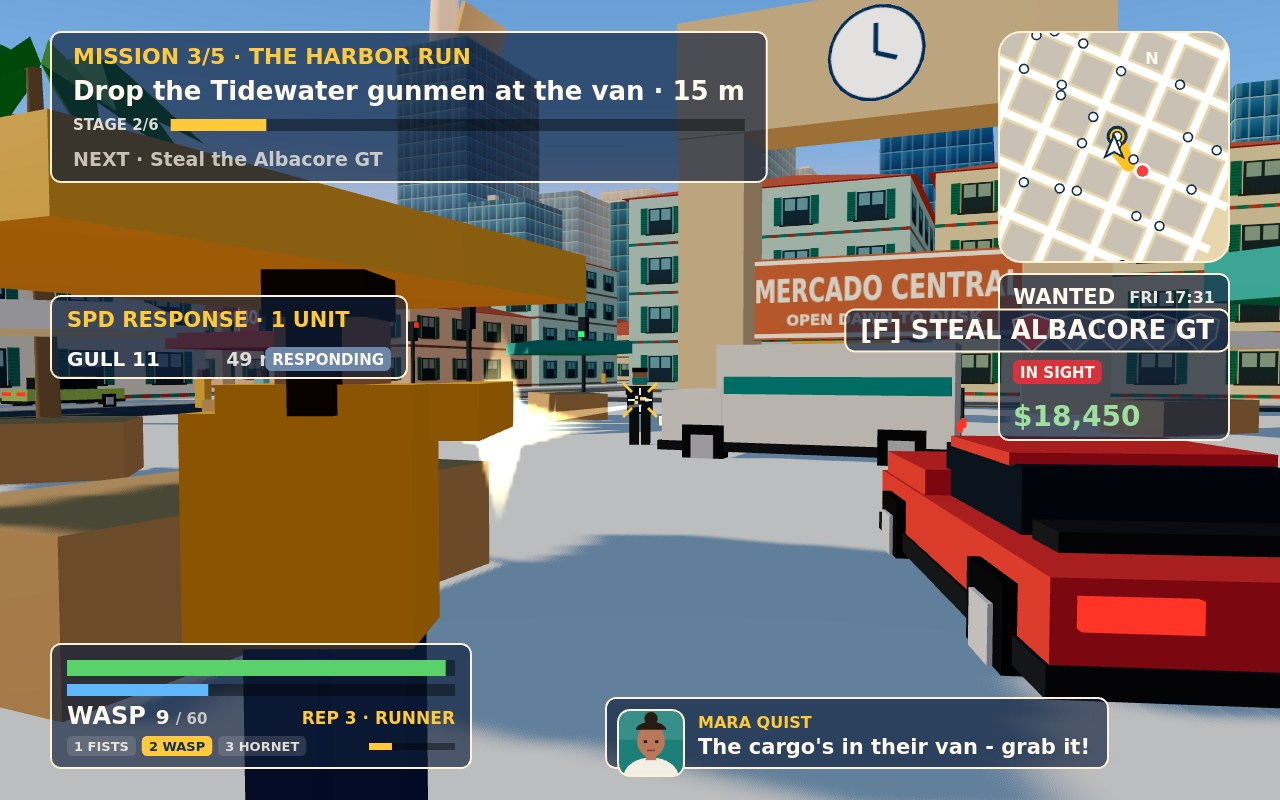
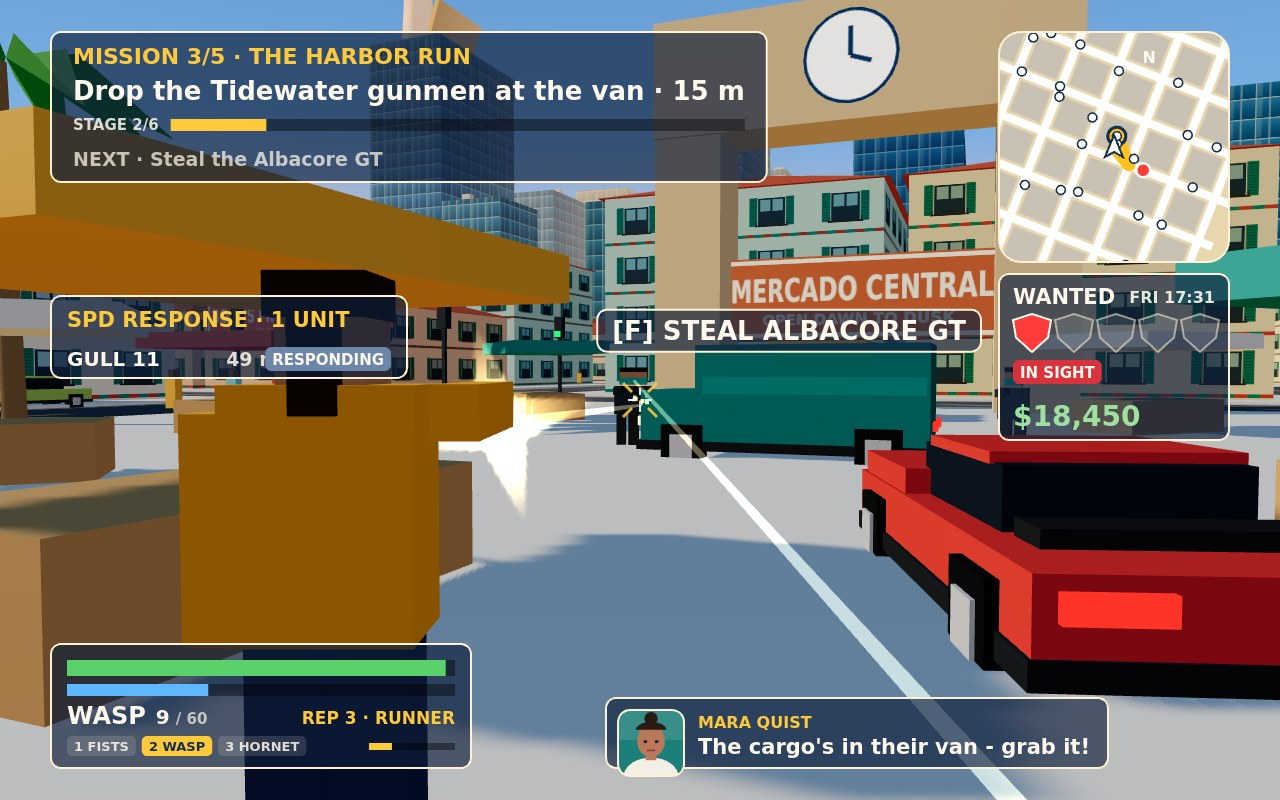
M4 steps 5-6: street shot final (teal Tidewater van, gunmen stepping out past its ends, Wasp flash, enemy tracer, hit marker, Mara subtitle, [F] STEAL ALBACORE GT clear of the WANTED column); cover with SKYLARK 1 at 2x centred over Palmline, searchlight cone on the Albacore, no district card; self-t

diff --git a/game/src/combat/enemies.js b/game/src/combat/enemies.js
@@ -66,10 +66,10 @@ export class EnemyCrews {
   pickSpot(e) {
     if (!e.cover) { e.spot = { x: e.x, z: e.z }; return; }
     const w = this.game.focus, dx = e.cover.x - w.x, dz = e.cover.z - w.z, d = Math.hypot(dx, dz) || 1;
-    const side = (this.pool.indexOf(e) % 3) - 1, lean = this.pool.indexOf(e) % 2 ? 1 : -1;
+    const k = this.pool.indexOf(e) % 3, side = k - 1, lean = k === 1 ? 1 : -1, out = PEEK + k * 0.9;
     e.spot = { x: e.cover.x + dx / d * 1.7 - dz / d * side * 1.3, z: e.cover.z + dz / d * 1.7 + dx / d * side * 1.3 };
     // The peek: step out past the cover's end (a van hides a standing man) to shoot.
-    e.peekSpot = { x: e.spot.x - dz / d * lean * 2.6, z: e.spot.z + dx / d * lean * 2.6 };
+    e.peekSpot = { x: e.cover.x + dx / d * 1.7 - dz / d * lean * out, z: e.cover.z + dz / d * 1.7 + dx / d * lean * out };
   }
 
   // One fixed tick.
@@ -170,7 +170,8 @@ export const CREWS = {
   tidewater: { id: 'tidewater', label: 'TIDEWATER GUNMAN', health: 70, fleeAt: 22, damage: 6, rate: 0.42, spread: 0.06, range: 45, shirt: 0x2f3e46, pants: 0x3b3a36, mark: 0x16b3a6, skin: 0xc58c66 },
   gilded: { id: 'gilded', label: 'GILDED HAND GUARD', health: 90, fleeAt: 18, damage: 8, rate: 0.3, spread: 0.05, range: 50, shirt: 0x15171c, pants: 0x1f2128, mark: 0xf2c230, skin: 0xd9a782 },
 };
-export const POOL = 6, CLINIC_FEE = 250;
+// PEEK: how far a gunman steps sideways out of cover to shoot (past a van's half length).
+export const POOL = 6, CLINIC_FEE = 250, PEEK = 3.4;
 
 const FIGURE_MATERIAL = new THREE.MeshStandardMaterial({ vertexColors: true, roughness: 0.7 });
 

diff --git a/game/src/dev/screenshot-scenes.js b/game/src/dev/screenshot-scenes.js
@@ -15,7 +15,7 @@ export function stageScreenshotScene(game, name) {
 
 // Cover framing: the arm behind and above the Albacore (it fills about 28% of the width), TIDE 14's
 // offset ahead/left of it, and SKYLARK 1's screen point (NDC) and height.
-const FRAME = { back: 2.8, up: 1.55, tideAhead: 8, tideLeft: -3.4, heliX: -0.1, heliY: 0.39, heliUp: 21 };
+const FRAME = { back: 2.8, up: 1.55, tideAhead: 8, tideLeft: -3.4, heliX: -0.08, heliY: 0.4, heliUp: 13 };
 // Where Wren stands for the Mercado fight (south of the van, facing the Clock Arch).
 const STREET = { x: 153.2, z: 75.5 };
 
@@ -111,9 +111,8 @@ export const SCENES = {
     for (let i = 0; i < 2; i++) {
       aim(); hold(['Mouse0'], 1); aim(); hold([], 60);
     }
-    // Keep the gunmen in the fight for the frame: the two at the van peek out at either end, the
-    // third stays down in cover.
-    game.enemies.active.forEach((e, i) => { e.health = Math.max(e.health, 60); e.state = i < 2 ? 'peek' : 'cover'; e.timer = 9; });
+    // Keep the gunmen in the fight for the frame: all three step out past the van's ends to shoot.
+    game.enemies.active.forEach((e) => { e.health = Math.max(e.health, 60); e.state = 'peek'; e.timer = 9; });
     hold([], 50);
     aim(); hold(['Mouse0'], 1); hold([], 2);
   },

diff --git a/game/src/ui/hud.js b/game/src/ui/hud.js
@@ -238,7 +238,11 @@ export function drawHud(ctx, game, drawMinimap) {
     const p = game.prompt;
     ctx.font = font(26 * s);
     const tw = ctx.measureText(p.text).width + 30 * s;
-    const px = Math.max(mx, Math.min(w - mx - tw, p.x - tw / 2)), py = Math.max(my, p.y - 50 * s);
+    let px = Math.max(mx, Math.min(w - mx - tw, p.x - tw / 2));
+    const py = Math.max(my, p.y - 50 * s);
+    // Never over the minimap / WANTED column: slide left beside it instead.
+    const colLeft = w - mx - 240 * s;
+    if (py < 450 * s && px + tw > colLeft) px = Math.max(mx, colLeft - tw - 8 * s);
     panel(ctx, px, py, tw, 42 * s);
     ctx.fillStyle = WHITE; ctx.fillText(p.text, px + 15 * s, py + 30 * s);
   }

diff --git a/game/src/main.js b/game/src/main.js
@@ -89,7 +89,7 @@ export function bootPortSolara() {
   game.enemies = new EnemyCrews(game);
   game.blasts = new CarExplosions(game);
   // Mission props, built once and parked out of sight: the Tidewater van and two Aurum SUVs.
-  const props = { van: addCar('dockhand', 1e5, 1e5, 0), aurumA: addCar('aurum', 1e5, 1e5, 0), aurumB: addCar('aurum', 1e5, 1e5, 0) };
+  const props = { van: addCar('dockhand', 1e5, 1e5, 0, 0x1f8a86),aurumA: addCar('aurum', 1e5, 1e5, 0), aurumB: addCar('aurum', 1e5, 1e5, 0) };
   for (const p of Object.values(props)) p.model.visible = false;
   props.albacore = game.albacore;
   game.placeProp = (name, x, z, heading) => {

diff --git a/NOTES.md b/NOTES.md
@@ -1,5 +1,80 @@
 # PORT SOLARA build notes
 
+## M4 Combat and story: done (steps 2-6, run of 2026-11-18 22:01-22:42 EET)
+- Step 2 combat/enemies.js `EnemyCrews`: a pool of 6 one-mesh figures (merged vertex-coloured boxes,
+  1 draw call each, hidden when free). `CREWS.tidewater` (teal bandana, 70 hp, flee under 22,
+  6 dmg, 0.42 s, spread 0.06) and `CREWS.gilded` (black suit, gold pin, 90 hp, 8 dmg). States: move
+  (run to the crouch spot 1.7 m past the cover on the far side from Wren), cover (crouched, 0.66
+  height, timer), peek (step `PEEK` 3.4 m + 0.9 m per slot sideways past the cover's end, shoot
+  with spread that grows with range), flee (run off, retired after 7 s or 60 m), down (slump flat,
+  sink after 3 s, retired at 5.5 s; no gore). A hit while in cover draws a peek. Rounds at Wren
+  hit inside 0.42 m of her chest unless a wall/car is nearer (fireWeapon now takes an `ignore`);
+  armour soaks 60%. LIGHTS OUT at 0 health: -$250 St. Elmo Clinic fee, a running job fails with
+  "LIGHTS OUT · ST. ELMO CLINIC -$250", crews cleared. Effects share Wren's pools
+  (`PlayerWeapons.showEffect`, tracers 4 -> 6). `PlayerWeapons.give(id)` for mission hand-outs.
+- Step 3 combat/car-explosions.js `CarExplosions`: under 45 health a car smokes from the hood,
+  under 22 it burns (orange puffs fading to soot), at 0 it blows: additive flash sprite (0.4 s),
+  12 instanced debris boxes with gravity and bounce, camera shake by distance (70 m), walkers
+  panic within 40 m, combat targets within 6 m take 90, Wren in the car is thrown out (-45),
+  on foot within 6 m takes up to 40. Civilian cars stay as scorched shells (original materials
+  kept in userData for prop reuse); traffic cars leave the pool; SPD units keep livery and the
+  police hook makes a blown Beacon +2 WANTED (ticked before the police). 3 draw calls.
+- Step 4 missions: the runner's `eliminate` (props + squad by offsets from the step's spot, done
+  when none of the squad still fights) and `defend` (waves on timers, `hold` seconds) are real;
+  steps may `give` a weapon; the gold beam hides during fights (GPS keeps the spot); props
+  (Tidewater van painted teal, two new Aurum SUVs: black with a gold waist line and grille) are
+  parked out of sight and cleared when a job ends. Missions: 2 Market Day (Mara hands over the
+  Wasp, walk the market, Tidewater ambush behind their van, $3,000 / 90 REP); 3 The Harbor Run's
+  Mercado fight is now three gunmen at the van with the Albacore parked by the stalls (Ilse, then
+  "The cargo's in their van - grab it!"); 4 Ledger at Lantern Point (Ilse gives the Hornet, reach
+  the crossing nearest the lighthouse, hold 20 s against two Gilded Hand waves from two Aurum
+  SUVs with Pell on the radio, $12,000 / 400 REP); 5 Sundown (take a fast car, WANTED 5 to the
+  crossing nearest the Gull Bridge's south landing in 4:00 with Roarke and Mara, lose the SPD,
+  then the SOLARA COURIER front-page card '"PELL LEDGER SINKS OSTRA BANK" · ROARKE SUSPENDED'
+  with cash and REP, then free roam; $25,000 / 600 REP). Portraits: Pell added (swept silver
+  hair, black suit, gold pin) beside Mara, Ilse and Roarke.
+- SKYLARK 1 is built at `HELI_SCALE` 2 (flies at 22 m; cone and beacons scaled). Cover: placed at
+  the screen point NDC (-0.08, 0.40) 13 m up, so it hangs over Palmline above the vanishing point
+  with its searchlight cone on the Albacore; the cover now runs 200 ticks on foot first so the
+  district card is gone. The "[F] STEAL ..." prompt slides left of the minimap/WANTED column
+  instead of covering it.
+- Step 5 tests (tools/selftest.mjs): `enemy` (a Tidewater gunman 12 m up the crosshair: first
+  Wasp shot hits, hit marker, down in 3 shots, he fires back, retired to the pool), `blast`
+  (smoke at 30 health, blast with shake and debris at 0, a blown Beacon = +2), `autopilot`
+  (mission 1 to JOB DONE and mission 5 to the SOLARA COURIER card through test-only moves),
+  `mission-list` (all five start with their panel; eliminate and defend steps exist).
+  2-street.jpg staged per section 3: mission 3 stage 2/6 at WANTED 1, Wren on the left third in
+  the shoulder aim with the Wasp, Tidewater gunmen stepping out past the teal Dockhand van under
+  the Clock Arch, muzzle flash, an enemy tracer, sparks, the gold hit marker on a gunman, Mara's
+  subtitle "The cargo's in their van - grab it!", "[F] STEAL ALBACORE GT" over the parked coupe.
+
+## Self-test after M4 (SwiftShader, 1280x800): SELFTEST PASS, 20/20
+- All M1-M3 tests unchanged; combat 5 shots / clip 7 / WANTED 1; enemy 3 shots, Wren 97.6 hp;
+  blast PASS (+2 from a Beacon); autopilot m1 JOB DONE in 596 ticks, m5 front page; mission-list 5.
+- perf 196 draw calls / 44,945 triangles / median 1.7-3.1 ms / heap 22-23 MB (was 135 at the
+  first run of this session; under the 200 cap, over the 150 target; see debts).
+- Originality PASS (30 files). main.ts twice: 37 output files byte-identical, dossier 920,477 bytes.
+- Shots: 1-chase.jpg 183.1 KiB (q80), 2-street.jpg 179.2 KiB (q88), 4-title.jpg 189.0 KiB (q76).
+  Judge sheet rebuilt; at 50% the cover reads mission, chase, police, helicopter, WANTED, minimap,
+  subtitle, radio; the street cell reads on-foot combat, the van, the coupe prompt and Mara.
+
+## Next (M5 Shell and depth)
+- Pause, the Tab map (3-map.jpg), save slots, settings, gun shop, respray, side activities, REP
+  unlocks; CONTINUE on the title (4-title.jpg final). Breaker shotgun (still cut).
+
+## Bugs / debts (M4)
+- Perf view draw calls went to 196 late in the test run (135 earlier the same session): find out
+  what stays visible after the autopilot / mission-list tests (scorched shells, police after
+  WANTED 5) and trim back toward 150.
+- Story gating: every ring is open from the start (missions 2-5 do not wait for the one before).
+- Defend has no "leave the point = fail" rule; Aurum SUVs are parked props, they do not drive in.
+- Enemies do not collide with cars (they stand where the cover math puts them); crates as cover
+  are not in (cars only).
+- The autopilot moves the focus straight to each marker (test-only), not along the GPS.
+- In the street shot two of the gunmen overlap at the van's left end; the third (right end) sits
+  behind the WANTED panel.
+- SKYLARK 1 in the cover is seen nose-on and still crosses palm fronds.
+
 ## M4 step 1 Weapons + cover QA: done (short run of 2026-11-18 21:17-21:44 EET)
 - File name: the run brief said src/combat/weapons.js, but the brief's file table (row 14) names
   **src/combat/weapons-and-damage.js** with `fireWeapon`, so that is the file (`fireWeapon` first).
